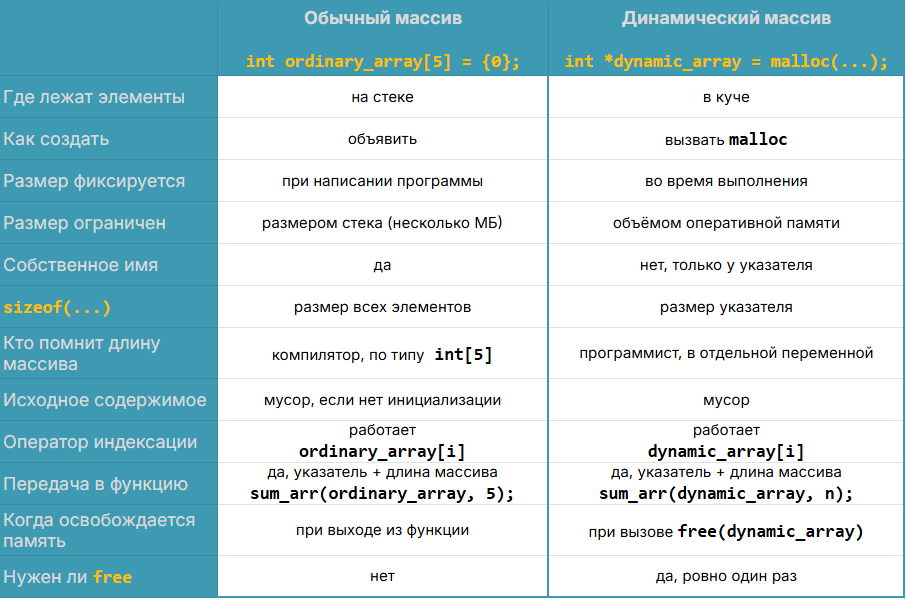
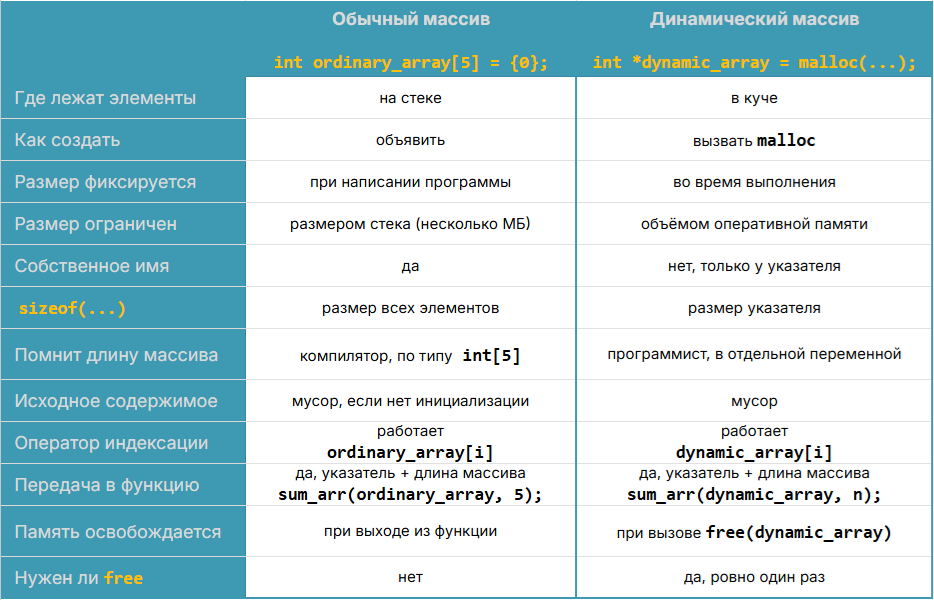
9.4 Добавка про runtime + новая картинка для сравнительной таблицы

diff --git a/lang_c/9/3__dynamic_arrays/article.md b/lang_c/9/3__dynamic_arrays/article.md
@@ -26,7 +26,7 @@ int main(void)
 
 Другая проблема заключается в том, что в момент написания программы мы не всегда точно знаем, сколько данных понадобится сохранить в массив. Конечно, мы можем создавать массивы "с запасом" (скорее всего именно так вы поступали, когда решали задачи на массивы на Stepik), но в любом случае весь наш "запас" будет ограничен размером стека.
 
-Чтобы избежать этих проблем, мы можем использовать =динамическую память=, её ещё называют =кучей (от англ. heap)=. =Динамическая память= -- это отдельная область оперативной памяти, из которой программа может запрашивать память прямо во время выполнения. Размер кучи, в отличие от стека, не фиксирован и может изменяться во время выполнения программы.
+Чтобы избежать этих проблем, мы можем использовать =динамическую память=, её ещё называют =кучей (от англ. heap)=. =Динамическая память= -- это отдельная область оперативной памяти, из которой программа может запрашивать память прямо во время выполнения. Размер кучи, в отличие от стека, не фиксирован и может изменяться во время выполнения программы. Часто вместо "во время выполнения" программы говорят =в runtime=.
 
 Резюмируем сказанное ранее. Операционная система при запуске программы выделяет ей небольшую область в оперативной памяти (стек) для хранения локальных переменных. Кроме того, есть ещё другая область памяти (куча), где программа прямо в процессе выполнения может получить дополнительную память под свои нужды. 
 

diff --git a/lang_c/9/3__dynamic_arrays/reference.md b/lang_c/9/3__dynamic_arrays/reference.md
@@ -41,3 +41,9 @@ int main(void)
         return 0;
 }
 ```
+
+**4.** Термин =runtime= многозначный. В этой заметке мы использовали одно из значений: `runtime` -- **время выполнения** программы, то есть момент, когда она уже скомпилирована и работает (в отличие от compile-time -- времени компиляции).
+
+Но в программировании `runtime` часто означает и другое: **среду выполнения** -- набор библиотек и различного служебного кода, без которых программа на целевой машине не заработает. Например, наши программы на Си с `printf` и `malloc` рассчитаны на то, что на компьютере должна быть реализация стандартной библиотеки Си и код, который запускает `main`.
+
+Отсюда важная особенность языка Си: он позволяет писать программы, которые могут обходиться **без стандартной библиотеки языка Си**, например прошивки для микроконтроллеров.
